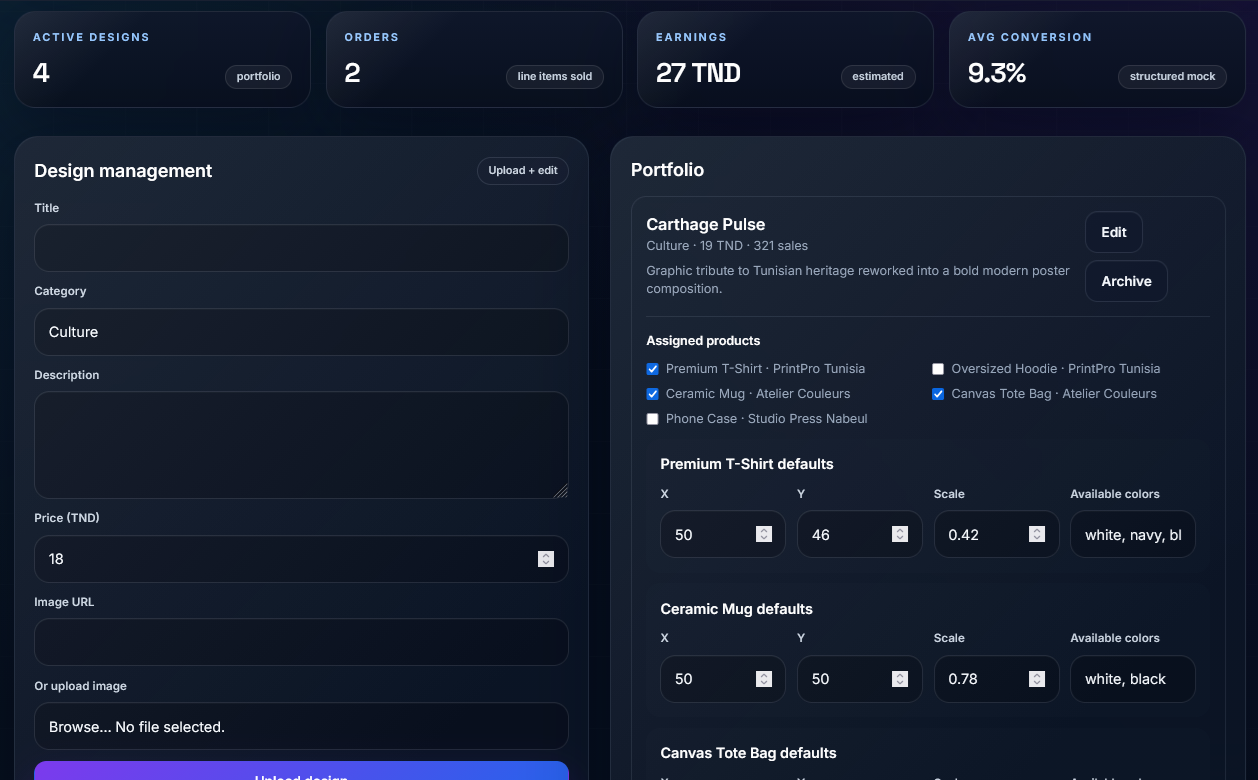
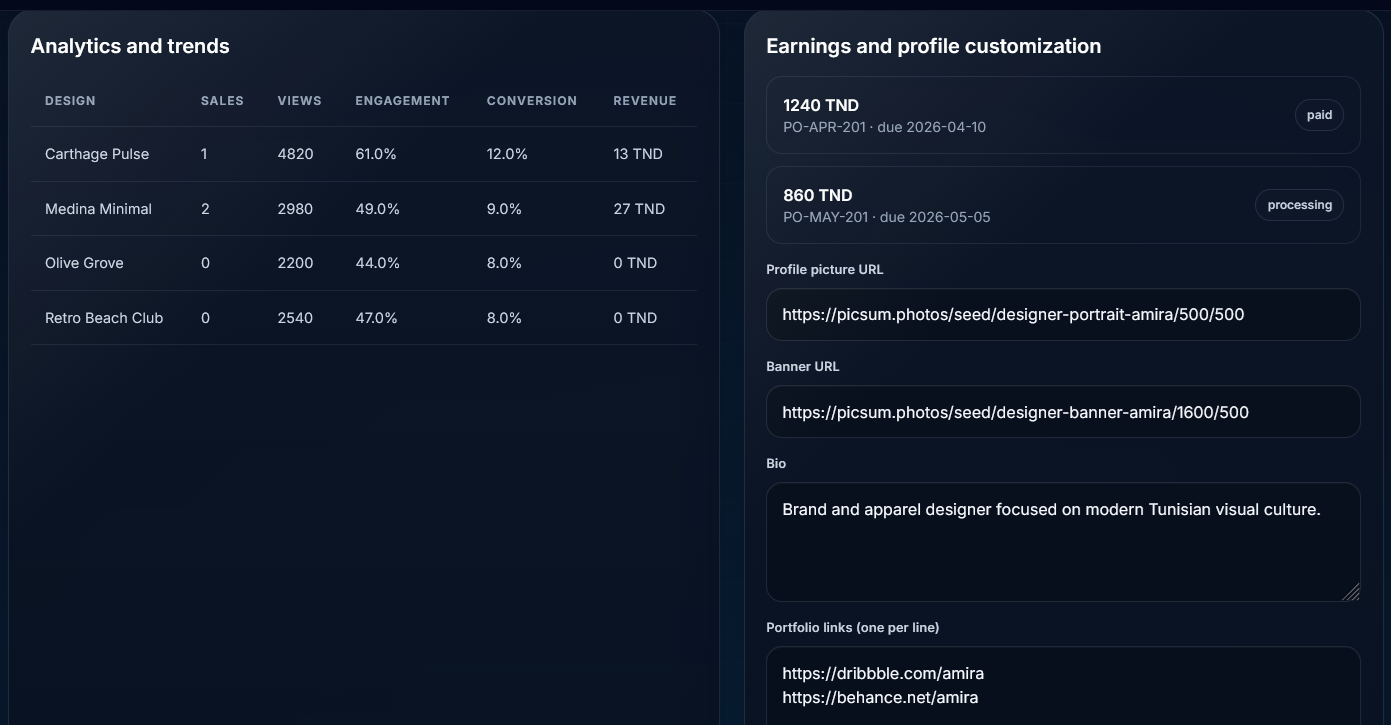
- Updated figure paths for use case diagrams to reflect new directory structure; added page breaks for improved layout.

diff --git a/new_report/mainmatter/chapter5.tex b/new_report/mainmatter/chapter5.tex
@@ -48,28 +48,28 @@ The customization interface allows the customer to select a compatible product, 
 
 This interface is one of the most important parts of the customer experience because it gives visual control over the final product.
 
-\reportfigure{customization-interface}{figures/customization-interface.png}{Screenshot of the product customization interface.}
+\reportfigure{customization-interface}{figures/screenshots/customization-interface.png}{Screenshot of the product customization interface.}
 
 \subsection{Printer selection}
 After customization, the customer selects a printer partner.
 The printer selection interface presents production-related information that helps the customer compare options.
 Once a printer is selected, the customized product can be added to the cart with all required details.
 
-\reportfigure{printer-selection-interface}{figures/printer-selection-interface.png}{Screenshot of the printer selection interface.}
+\reportfigure{printer-selection-interface}{figures/screenshots/printer-selection-interface.png}{Screenshot of the printer selection interface.}
 
 \subsection{Cart management}
 The cart displays the selected design, product, printer, color, size, placement, and calculated price for each line.
 Customers can review their selections before confirmation and remove items when necessary.
 The cart total is calculated from the product base price, design price, and printer-related costs.
 
-\reportfigure{cart-interface}{figures/cart-interface.png}{Screenshot of the cart interface.}
+\reportfigure{cart-interface}{figures/screenshots/cart-interface.png}{Screenshot of the cart interface.}
 
 \subsection{Checkout and payment}
 The checkout page gathers the shipping address and payment method.
 Once confirmed, the platform creates an order, generates order lines, assigns a tracking code, calculates the total amount, records the payment status, and clears the cart.
 The user is then redirected to the tracking page.
 
-\reportfigure{checkout-interface}{figures/checkout-interface.png}{Screenshot of the checkout and payment interface.}
+\reportfigure{checkout-interface}{figures/screenshots/checkout-interface.png}{Screenshot of the checkout and payment interface.}
 
 \subsection{Order tracking}
 Order tracking is based on the status of order lines.
@@ -77,7 +77,7 @@ The timeline includes pending, accepted, printing, shipped, and delivered.
 This gives customers a clear view of production and delivery progress.
 Customers can also submit reviews after completing an order, which improves marketplace trust.
 
-\reportfigure{order-tracking-interface}{figures/order-tracking-interface.png}{Screenshot of the order tracking interface.}
+\reportfigure{order-tracking-interface}{figures/screenshots/order-tracking-interface.png}{Screenshot of the order tracking interface.}
 
 \section{Validation and evaluation}
 At the end of Cycle 2, the customer workflow was complete: selecting a design, customizing a product, choosing a printer, adding the product to the cart, confirming checkout, and tracking the order.

diff --git a/new_report/mainmatter/chapter6.tex b/new_report/mainmatter/chapter6.tex
@@ -44,7 +44,7 @@ This organization reduced complexity and made the system easier to extend.
 The customer dashboard allows users to view their orders, manage profile data, save addresses, define payment preferences, and consult submitted reviews.
 This workspace gives customers a clear view of their activity on the platform.
 
-\reportfigure{customer-dashboard}{figures/customer-dashboard.png}{Customer dashboard interface screenshot.}
+\reportfigure{customer-dashboard}{figures/screenshots/customer-dashboard.png}{Customer dashboard interface screenshot.}
 
 \subsection{Designer dashboard}
 The designer dashboard supports design management and analytics.
@@ -53,7 +53,7 @@ The dashboard also displays performance indicators such as earnings, number of d
 
 The design model includes title, image, designer information, category, description, tags, rating, sales, views, engagement rate, conversion rate, price, status, assigned products, product configurations, and timestamps.
 
-\reportfigure{designer-dashboard}{figures/designer-dashboard.png}{Designer dashboard interface screenshot.}
+\reportfigure{designer-dashboard}{figures/screenshots/designer-dashboard.png}{Designer dashboard interface screenshot.}
 
 \subsection{Printer dashboard}
 The printer dashboard allows printing partners to manage products and incoming order lines.
@@ -62,7 +62,7 @@ The dashboard also displays product count, revenue, fulfillment rate, and rating
 
 The product model includes printer identity, name, category, description, base price, colors, sizes, images, availability, lead time, rating, total orders, and assigned design identifiers.
 
-\reportfigure{printer-dashboard}{figures/printer-dashboard.png}{Printer dashboard interface screenshot.}
+\reportfigure{printer-dashboard}{figures/screenshots/printer-dashboard.png}{Printer dashboard interface screenshot.}
 
 \subsection{Admin dashboard}
 The admin dashboard provides an overview of users, orders, revenue, active designs, and active printers.
@@ -72,7 +72,7 @@ This dashboard provides the governance layer required for a marketplace with mul
 For technical monitoring, the health module checks server memory and PostgreSQL connectivity.
 This gives administrators visibility over essential platform health indicators.
 
-\reportfigure{admin-dashboard}{figures/admin-dashboard.png}{Admin dashboard interface screenshot.}
+\reportfigure{admin-dashboard}{figures/screenshots/admin-dashboard.png}{Admin dashboard interface screenshot.}
 
 \subsection{Back-end optimization and technical services}
 We added several technical services to improve reliability and maintainability:

diff --git a/new_report/mainmatter/chapter4.tex b/new_report/mainmatter/chapter4.tex
@@ -49,8 +49,8 @@ During login, the server verifies the credentials, signs a JWT token, and establ
 The authentication interface was designed to be simple and direct.
 It helps users access the platform quickly and supports role-based redirection after successful authentication.
 
-\reportfigure{login-interface}{figures/login-interface.png}{Screenshot of the login interface.}
-\reportfigure{register-interface}{figures/register-interface.png}{Screenshot of the registration interface.}
+\reportfigure{login-interface}{figures/screenshots/login-interface.png}{Screenshot of the login interface.}
+\reportfigure{register-interface}{figures/screenshots/register-interface.png}{Screenshot of the registration interface.}
 
 \subsection{Marketplace and product discovery}
 The home page introduces the platform and highlights featured designs and products.
@@ -60,8 +60,8 @@ Each design and product is displayed through reusable cards that include the ess
 The design detail page gives the customer more information about the selected artwork and provides access to customization.
 This flow creates a natural transition from discovery to purchase.
 
-\reportfigure{marketplace-interface}{figures/marketplace-interface.png}{Screenshot of the marketplace discovery interface.}
-\reportfigure{product-detail-interface}{figures/product-detail-interface.png}{Screenshot of the product or design detail interface.}
+\reportfigure{marketplace-interface}{figures/screenshots/marketplace-interface.png}{Screenshot of the marketplace discovery interface.}
+\reportfigure{product-detail-interface}{figures/screenshots/product-detail-interface.png}{Screenshot of the product or design detail interface.}
 
 \subsection{Reusable components}
 We developed reusable interface components to keep the platform consistent.
